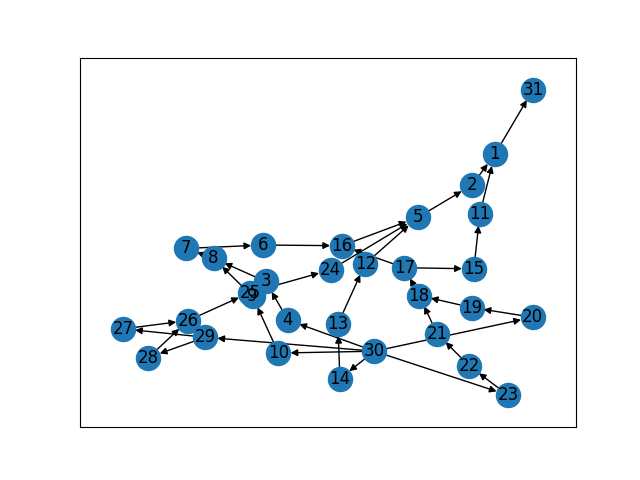
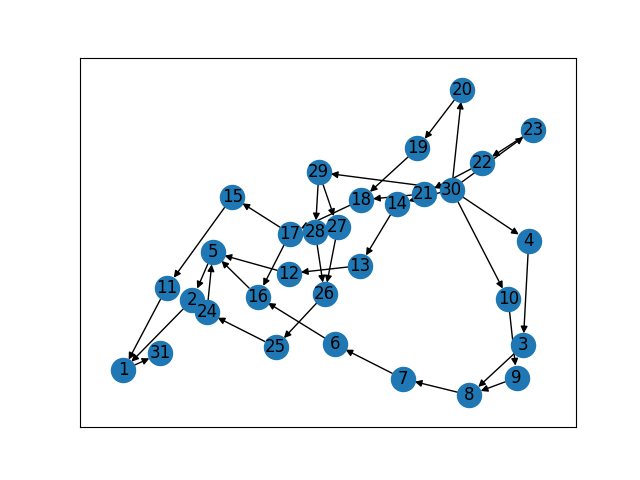
2.1

Changed region(s): [[0.1562, 0.1562, 0.875, 0.875], [0.3438, 0.375, 0.4062, 0.4375]]

diff --git a/tabu.py b/tabu.py
@@ -12,6 +12,7 @@
 from collections import deque
 from typing import List, Tuple, Callable
 from functools import partial
+from dag import DAG
 
 class Tabu(object):
   """
@@ -89,8 +90,19 @@ class Tabu(object):
       if (x1, x2) == pair or (x2, x1) == pair:
         return True
     return False
+  
+  def _swap_valid(self, current_schedule: List[int], i: int, tabu_list: List[int], cost_fn: Callable[[List[int]], float], best_cost: float, G: DAG) -> Tuple[bool, List[int], float]:
+    new_schedule = current_schedule.copy()
+    new_schedule[i], new_schedule[i + 1] = new_schedule[i + 1], new_schedule[i]
+    new_cost = cost_fn(new_schedule)
+    delta = cost_fn(current_schedule) - new_cost
+    valid = new_cost < best_cost
+    valid = valid or (delta > -self.gamma and not self._swap_in_tabu_list(tabu_list, current_schedule[i], current_schedule[i + 1]))
+    valid = valid and (G[new_schedule[i + 1], new_schedule[i]] == 0)
+    return valid, new_schedule, new_cost
 
-  def tabu_search(self, intial_schedule: List[int], processing_times: List[float], due_dates: List[float], weights: List[float], K: int, debug: int=0) -> Tuple[List[int], float]:
+
+  def tabu_search(self, intial_schedule: List[int], processing_times: List[float], due_dates: List[float], weights: List[float], K: int, G: DAG = DAG(), debug: int=0) -> Tuple[List[int], float]:
     """Runs the tabu search algorithm
 
     Args:
@@ -104,6 +116,8 @@ class Tabu(object):
           the weight of each job, where the index of the job in the list is the job number minus one
         K (int): 
           the number of iterations to run the algorithm for
+        G (DAG, optional):
+          the directed acyclic graph representing the job precedences. Defaults to DAG().
         debug (int, optional): 
           the level of debug messages to print. Defaults to 0.
 
@@ -117,15 +131,15 @@ class Tabu(object):
     k = 0 
     current_schedule = intial_schedule
     best_schedule = current_schedule
-    current_cost = cost_fn(current_schedule)
-    best_cost = current_cost
+    best_cost = cost_fn(current_schedule)
     tabu_list = deque([], maxlen=self.L)
     last_swap_index = 0 # index of the second element in the last swap 
+    terminated = False
 
-    while k <= K:
+    while k <= K and not terminated:
       debug_msg = ''
       if debug > 0:
-        debug_msg = f'k: {k}, current_cost: {current_cost}, best_cost: {best_cost}'
+        debug_msg = f'k: {k}, current_cost: {cost_fn(current_schedule)}, best_cost: {best_cost}'
       if debug > 1:
         debug_msg += f', current_schedule: {current_schedule}, best_schedule: {best_schedule}'
       if debug > 2:
@@ -134,21 +148,18 @@ class Tabu(object):
         print(debug_msg)
       i = last_swap_index
       while True: 
-        new_schedule = current_schedule.copy()
-        new_schedule[i], new_schedule[i + 1] = new_schedule[i + 1], new_schedule[i]
-        new_cost = cost_fn(new_schedule)
-        delta = current_cost - new_cost
-        if (delta > -self.gamma and not self._swap_in_tabu_list(tabu_list, current_schedule[i], current_schedule[i + 1])) or new_cost < best_cost:
+        valid_swap, new_schedule, new_cost = self._swap_valid(current_schedule, i, tabu_list, cost_fn, best_cost, G)
+        if valid_swap:
           tabu_list.append((current_schedule[i], current_schedule[i + 1]))
           if new_cost < best_cost:
             best_schedule = new_schedule
             best_cost = new_cost
           current_schedule = new_schedule
-          current_cost = new_cost
           break
         i = (i + 1) % (num_jobs - 1)
         # if we have gone through all the possible swaps, then break
         if i == last_swap_index:
+          terminated = True
           break
 
       last_swap_index = (i + 1) % (num_jobs - 1)

diff --git a/main.py b/main.py
@@ -1,49 +1,46 @@
 from dag import DAG
+from tabu import Tabu
+from typing import List
+import os 
 
-def q2_dac():
+def q2_dac() -> DAG:
   G = DAG()
-  G[1,31]=1
-  G[2,1]=1
-  G[3,8]=1
-  G[4,3]=1
-  G[5,2]=1
-  G[6,16]=1
-  G[7,6]=1
-  G[8,7]=1
-  G[9,8]=1
-  G[10,9]=1
-  G[11,1]=1
-  G[12,5]=1
-  G[13,12]=1
-  G[14,13]=1
-  G[17,15]=1
-  G[15,11]=1
-  G[16,5]=1
-  G[17,16]=1
-  G[18,17]=1
+  with open(os.path.join('data', 'q2_dac.txt'), 'r') as f:
+    for line in f:
+      x, y = line.split(',')
+      G[int(x), int(y)] = 1
+  return G
 
-  G[19,18]=1
-  G[20,19]=1
-  G[21,18]=1
-  G[22,21]=1
-  G[23,22]=1
-  G[24,5]=1
-  G[25,24]=1
-  G[26,25]=1
-  G[27,26]=1
-  G[28,26]=1
-  G[29,28]=1
-  G[30,4]=1
-  G[30,10]=1
-  G[30,14]=1
-  G[30,20]=1
-  G[30,23]=1
-  G[29,27]=1
-  G[30,29]=1
-  return G 
+def q2_due_dates() -> List[float]:
+  d = []
+  with open(os.path.join('data', 'q2_due_dates.csv'), 'r') as f:
+    lines = [line for line in f]
+    d = [0 for _ in lines]
+    for line in lines:
+      index, due = line.split(',')
+      d[int(index)-1] = float(due)
+  return d
+
+def q2_processing_times() -> List[float]:
+  p = []
+  with open(os.path.join('data', 'q2_processing_times.csv'), 'r') as f:
+    lines = [line for line in f]
+    p = [0 for _ in lines]
+    for line in lines:
+      index, proc = line.split(',')
+      p[int(index)-1] = float(proc)
+  return p
 
 if __name__ == '__main__':
   G = q2_dac()
   G.save_fig('q2_dac.png')
+  p = q2_processing_times()
+  d = q2_due_dates()
+  initial_schedule = [30, 29, 23, 10, 9, 14, 13, 12, 4, 20, 22, 3, 27, 28, 8, 7, 19, 21, 26, 18, 25, 17, 15, 6, 24, 16, 5, 11, 2, 1, 31]
+  w = [1 for _ in range(31)]
+  tabu = Tabu(L=20, gamma=10)
+  print(tabu.tabu_search(initial_schedule, p, d, w, G=G, K=500000, debug=4))
+
+
 
 
